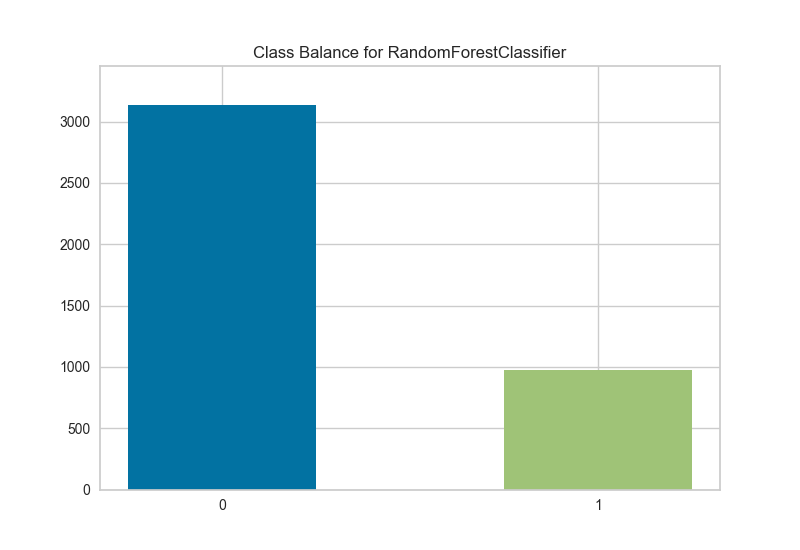
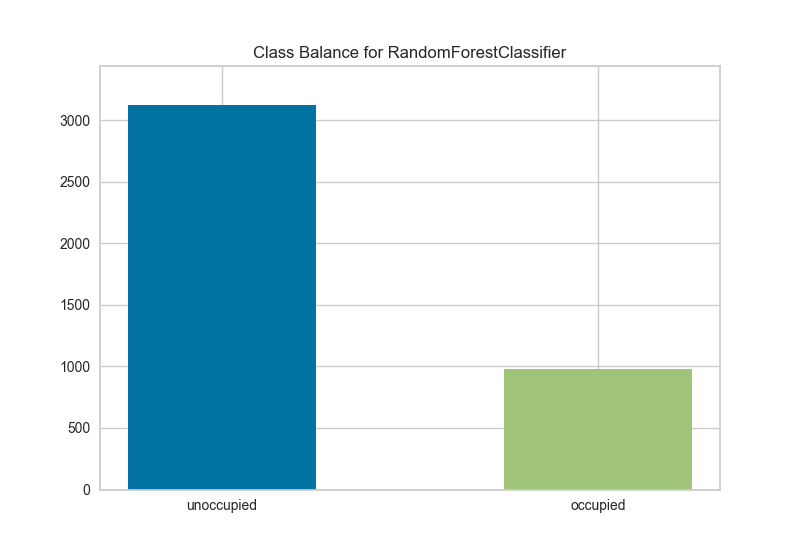
class balance x labels

diff --git a/poster/gallery.py b/poster/gallery.py
@@ -359,7 +359,7 @@ def class_balance(ax):
     X_train, X_test, y_train, y_test = splits
 
     estimator = RandomForestClassifier()
-    visualizer = ClassBalance(estimator, ax=ax)
+    visualizer = ClassBalance(estimator, ax=ax, classes=classes)
     visualizer.fit(X_train, y_train)
     visualizer.score(X_test, y_test)
     return visualizer
